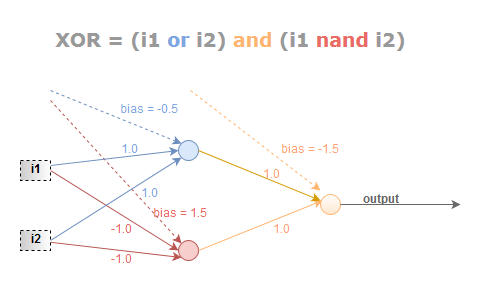
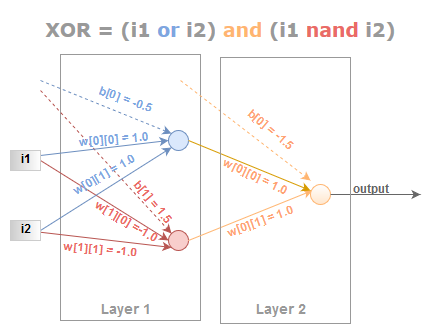
MLP notes

diff --git a/notes/03/PITCHME.md b/notes/03/PITCHME.md
@@ -13,288 +13,55 @@
 ![Picture of MLP](https://raw.githubusercontent.com/vincintz/ml101/master/notes/assets/mlp.png)
 
 +++
+### Multilayer Perceptron (MLP)
+
+#### Conventions
+* number of layers = number of hidden layers + output layer
+* we use the following indeces
+  * _l_ : for layer
+  * _j_ : node in current layer / output node
+  * _i_ : node in previous layer / input node
+* each layer has:
+  * biases\[j\]
+  * weights\[j\]\[i\]
+
++++
 ### Forward Computation
 ![Picture of MLP](https://raw.githubusercontent.com/vincintz/ml101/master/notes/assets/xor-mlp.png)
 
 +++
 ### Forward Computation
 ```
-// precondition:  initialized bias and weights
-// input:
-// postcondition: out[ 
-for each layer (L)
-  for each neuron (j) in layer (L)
-    let out[j] = b[j]
-    for each neuron (i) in layer (L-1)
-      out[j] = 
-    end
-  end
-end
+class MLP:
+    public double[] feedForward(double... input) {
+        double[] layerOutput = input;
+        for (int l = 0; l < layers.length; l++) {
+            layerOutput = layers[l].feedForward(layerOutput);
+        }
+        return layerOutput;
+    }
+```
+```
+class Layer:
+    double[] feedForward(double[] input) {
+        crossMultiply(output, weights, input);
+        vectorAdd(output, output, bias);
+        activate(output, activationFn);
+        return output;
+    }
 ```
 +++
 ### Training: Backpropagation
 
+* Compute cost at the output layer
+  * ![cost = sumSquare(expected - output)](https://raw.githubusercontent.com/vincintz/ml101/master/notes/assets/cost.png)
 * Update the weights and bias such that a certain error function is minimized
-* Error function: 
 
 ---
-## Input/Output Samples
-
-### XOR
-|           | Input | Hidden | Output |
-| --------- |:-----:|:------:|:------:|
-| **Nodes** | 2     | 2      | 1      |
-
-* Input Layer: 2
-* 1 Hidde
+## Gradient Descent
 
 ---
-### Matrix-Vector Multiply
-```
-public static void crossMultiply(double[]   result,
-                                 double[][] matrix,
-                                 double[]   vector) {
-  for (int j = 0; j < matrix.length; j++) {
-    result[j] = 0.0;
-    for (int i = 0; i < matrix[j].length; i++) {
-      result[j] += vector[i] * matrix[j][i];
-    }
-  }
-}
-```
-
-+++
-### Matrix-Vector Multiply
-```
-public static void vectorAdd(double[] result,
-                             double[] v1,
-                             double[] v2) {
-  int length = Math.min(v1.length, v2.length);
-  for (int i = 0; i < length; i++) {
-    result[i] = v1[i] + v2[i];
-  }
-}
-```
-
-+++
-### To generalize:
-![Picture of MLP](https://raw.githubusercontent.com/vincintz/ml101/master/notes/assets/mlp.png)
-
----
-* But our XOR network was programmed
-  * We chose the weights to solve the problem
-* We need an algorithm to _learn_ the weights
-* First, we need to define the MLP network architecture
-  * Number of layers (2 in our example, not counting the input layer)
-  * Number of nodes per layer
-  * Activation function
-
-+++
-* We also need the following:
-  * A _learning rate_
-  * Stopping criteria
-  * Performance measure
-    * Error/cost function
-
----
-### Sample API
-#### Instantiate
-```
-final MLP mlp =
-        new MLP.Builder()
-               .activation(new LogisticFn())
-               .layers(2, 2, 1)
-               .randomWeights()
-               .learningRate(0.05)
-               .epochs(1000000)
-               .build();
-```
-
-+++
-#### Train
-```
-mlp.train(
-        new double[][] {{0.0, 0.0},
-                        {0.0, 1.0},
-                        {1.0, 0.0},
-                        {1.0, 1.0}},
-        new double[][] {{0.0},
-                        {1.0},
-                        {1.0},
-                        {0.0}});
-```
-
-+++
-#### Use
-```
-        assertEquals(0.0, mlp.compute(0.0, 0.0)[0], DELTA);
-        assertEquals(1.0, mlp.compute(0.0, 1.0)[0], DELTA);
-        assertEquals(1.0, mlp.compute(1.0, 0.0)[0], DELTA);
-        assertEquals(0.0, mlp.compute(1.0, 1.0)[0], DELTA);
-```
-
----
-### Training Algorithms
-* Randomly update the weights
-* Change each weight by a small amount
-  * keep the update that decrease the error
-* Change each weight by a small amount
-  * predict which update will decrease the error
-  * derivative == gradient == direction of growth
-  * use negative gradient :-)
-
-+++
-![Picture of MLP](https://raw.githubusercontent.com/vincintz/ml101/master/notes/assets/mlp.png)
-
----
-### Gradient Descent Algorithm
-
-* Run forward computation
-* Compute difference between expected output and forward computation output
-* Update the weights to minimize the difference
-* Repeat the above steps
-
-+++
-### Backpropagation Algorithm
-
-* Run forward computation
-* At the output layer
-  * Compute difference between expected output and forward computation output
-  * Update the weights to minimize the difference
-* For each hidden layer (nearest to the OL, going backwards)
-  * Compute a difference that would improve the output from this layer to the next
-  * Update the weights to minimize the difference
-* Repeat the above steps
-
-+++
-### Back-propagation
-
-Backpropagation is a method used in artificial neural networks to calculate the error contribution of each neuron after
-a batch of data (in image recognition, multiple images) is processed
-
-+++
-### Gradient Descent
-Gradient descent is a first-order iterative optimization algorithm for finding the minimum of a function.
-To find a local minimum of a function using gradient descent, one takes steps proportional to the negative of the
-gradient (or of the approximate gradient) of the function at the current point.
-
----
-### train
-```
-public void train(final double[][] input,
-                  final double[][] expected) {
-  for (int ep = 0; ep < epochs; ep++) {
-    doBatchBackProp(deltaWeights, deltaBias,
-                    input, expected);
-    updateWeightsAndBias(deltaWeights, deltaBias);
-  }
-}
-```
-
-+++
-### doBatchBackProp
-```
-private double doBatchBackProp(double[][][] deltaWeights, double[][]   deltaBias,
-                               double[][] input, double[][]   expected) {
-  for (int n = 0; n < input.length; n++) {
-    feedForward(outputValues, input[n]);
-    computeNodeErrors(errorValues, outputValues, expected[n]);
-    computeDeltaWeightsAndBias(deltaWeights, deltaBias, outputValues, errorValues);
-  }
-}
-```
-
-+++
-### updateWeightsAndBias
-```
-private void updateWeightsAndBias(double[][][] deltaWeights,
-                                  double[][] deltaBias) {
-  for (int k = 0; k < weights.length; k++) {
-    for (int j = 0; j < weights[k].length; j++) {
-      for (int i = 0; i < weights[k][j].length; i++) {
-        weights[k][j][i] += deltaWeights[k][j][i];
-        deltaWeights[k][j][i] = 0.0;
-      }
-      bias[k][j] += deltaBias[k][j];
-      deltaBias[k][j] = 0.0;
-    }
-  }
-}
-```
-
-+++
-### compute cost at the output layer 
-```
-  double[] output = outputValues[layers - 1];
-  for (int j = 0; j < output.length; j++) {
-    double delta = expected[j] - output[j];
-    errorValues[layers-1][j] = delta * activationFn.derivative(output[j]);
-    sumSquareError += delta * delta;
-  }
-```
-+++
-### compute error at hidden layers 
-```
-  // compute error at hidden layers
-  for (int currentLayer = layers-1; currentLayer > 1; currentLayer--) {
-    int previousLayer = currentLayer - 1;
-    double[] hidden = outputValues[previousLayer];
-    for (int i = 0; i < errorValues[previousLayer].length; i++) {
-      double delta = 0.0;
-      for (int j = 0; j < errorValues[currentLayer].length; j++) {
-        delta += weights[previousLayer][j][i] * errorValues[currentLayer][j];
-      }
-      errorValues[previousLayer][i] = delta * activationFn.derivative(hidden[i]);
-    }
-  }
-```
-
-+++
-### computeDeltaWeightsAndBias
-```
-int layers = errorValues.length;
-for (int currentLayer = layers-1; currentLayer > 0; currentLayer--) {
-  int previousLayer = currentLayer - 1;
-  for (int j = 0; j < errorValues[currentLayer].length; j++) {
-    deltaBias[previousLayer][j] +=
-            learningRate * errorValues[currentLayer][j];
-    for (int i = 0; i < errorValues[previousLayer].length; i++) {
-        deltaWeights[previousLayer][j][i] +=
-                learningRate * errorValues[currentLayer][j]
-                             * outputValues[previousLayer][i];
-    }
-  }
-}
-```
-
----
-### Results
-#### Cost vs Epoch
-![Cost vs Epoch](https://raw.githubusercontent.com/vincintz/ml101/master/notes/assets/xor-train.png)
-
-+++
-#### Can get stuck in a local minima
-![Cost vs Epoch](https://raw.githubusercontent.com/vincintz/ml101/master/notes/assets/xor-train-stuck.png)
-
----
-### Next Step
-* Gradient descent intuition
-  * Error function over time (epoch)
-  * Weight/Bias update computation
-* Possible improvements
-  * regularization
-  * momentum
-  * Batch vs SGD vs mixed
-  * use a numeric math library
-
-+++
-### Next Step
-* Real world application
-  * Data preparation
-  * Train/Test/Validation data
-* Troubleshooting
-  * Tuning the parameters
-  * Bias vs Variance
+## Back Propagation
 
 ---
 ### References
